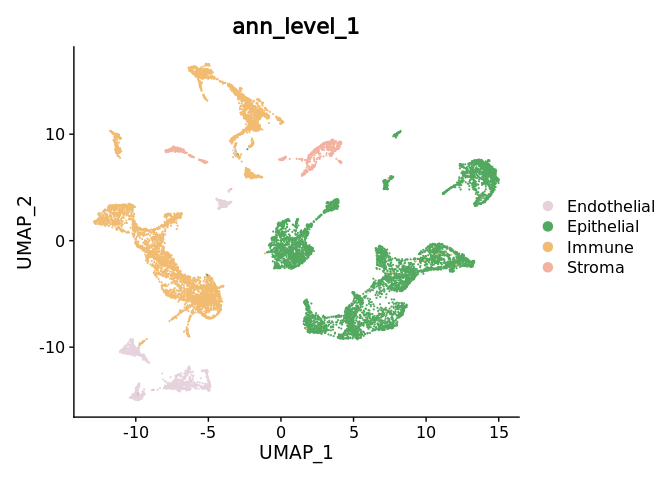
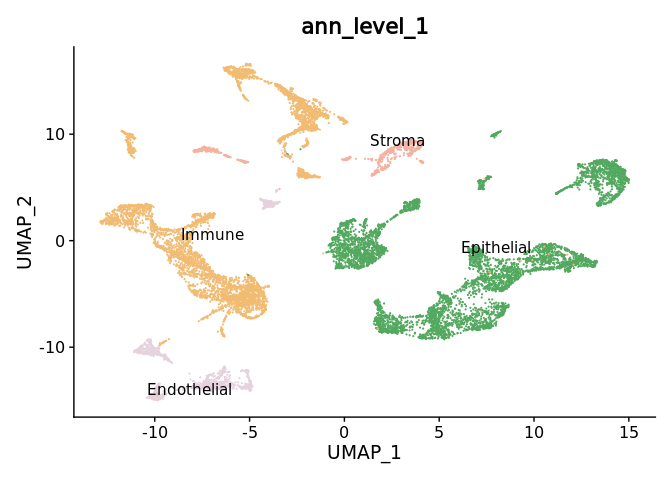
updating sup integration'

diff --git a/examples/HLCA_core_atlas_supervised.md b/examples/HLCA_core_atlas_supervised.md
@@ -137,8 +137,8 @@ the following chunk.
     gc()
 
     ##           used  (Mb) gc trigger  (Mb) max used  (Mb)
-    ## Ncells 3083503 164.7    5504675 294.0  5504675 294.0
-    ## Vcells 5756190  44.0   32320632 246.6 36486906 278.4
+    ## Ncells 3083503 164.7    5504718 294.0  5504718 294.0
+    ## Vcells 5756193  44.0   32320616 246.6 36486909 278.4
 
 ## Constructing supervised metacell
 
@@ -352,11 +352,11 @@ We can navigate in the different annotation levels.
 
     library(ggplot2)
 
-    DimPlot(combined.mc,group.by = "ann_level_1",reduction = "umap",cols= color.celltypes)
+    DimPlot(combined.mc,group.by = "ann_level_1",reduction = "umap",label = T, repel = T,cols= color.celltypes) + NoLegend()
 
 ![](HLCA_core_atlas_supervised_files/figure-markdown_strict/unnamed-chunk-18-1.png)
 
-    DimPlot(combined.mc,group.by = "ann_level_2",reduction = "umap",label = T,repel = T,cols= color.celltypes)
+    DimPlot(combined.mc,group.by = "ann_level_2",reduction = "umap",label = T, repel = T,cols= color.celltypes) + NoLegend()
 
 ![](HLCA_core_atlas_supervised_files/figure-markdown_strict/unnamed-chunk-18-2.png)
 
@@ -462,8 +462,8 @@ integration workflow should be preferred.
 
 To be noted that we used an intermediary level of annotation to
 supervise our analysis, using a finer level for this data would have
-resulted in a longer time for metacell building. PLus, we would have
-obtained to few metacells per cell type in the different sample to be
+resulted in a longer time for metacell building. Plus, we would have
+obtained to few metacells per cell type in the different samples to be
 able to make an efficient supervised batch correction with STACAS.
 
 To be more precise at the cost of computational efficiency one could
@@ -471,8 +471,8 @@ also try to reduce the graining level of the analysis (using a graining
 level of 20 for instance),
 
 To conclude, keep in mind that in one hand, for certain analysis such as
-rare cell type analysis, we will never achieve the same level of
-sensitivity with metacells compared to single-cells. On the other hand,
-you certainly won’t be able to analyze so many single-cells so easily,
-and you may not need extremely fine cell-type resolution for many
-analyses.
+very rare cell type analysis, we will struggle to achieve the same level
+of sensitivity with metacells compared to single-cells. On the other
+hand, you certainly won’t be able to analyze so many single-cells so
+easily, and you may not need extremely fine cell-type resolution for
+many analyses.
